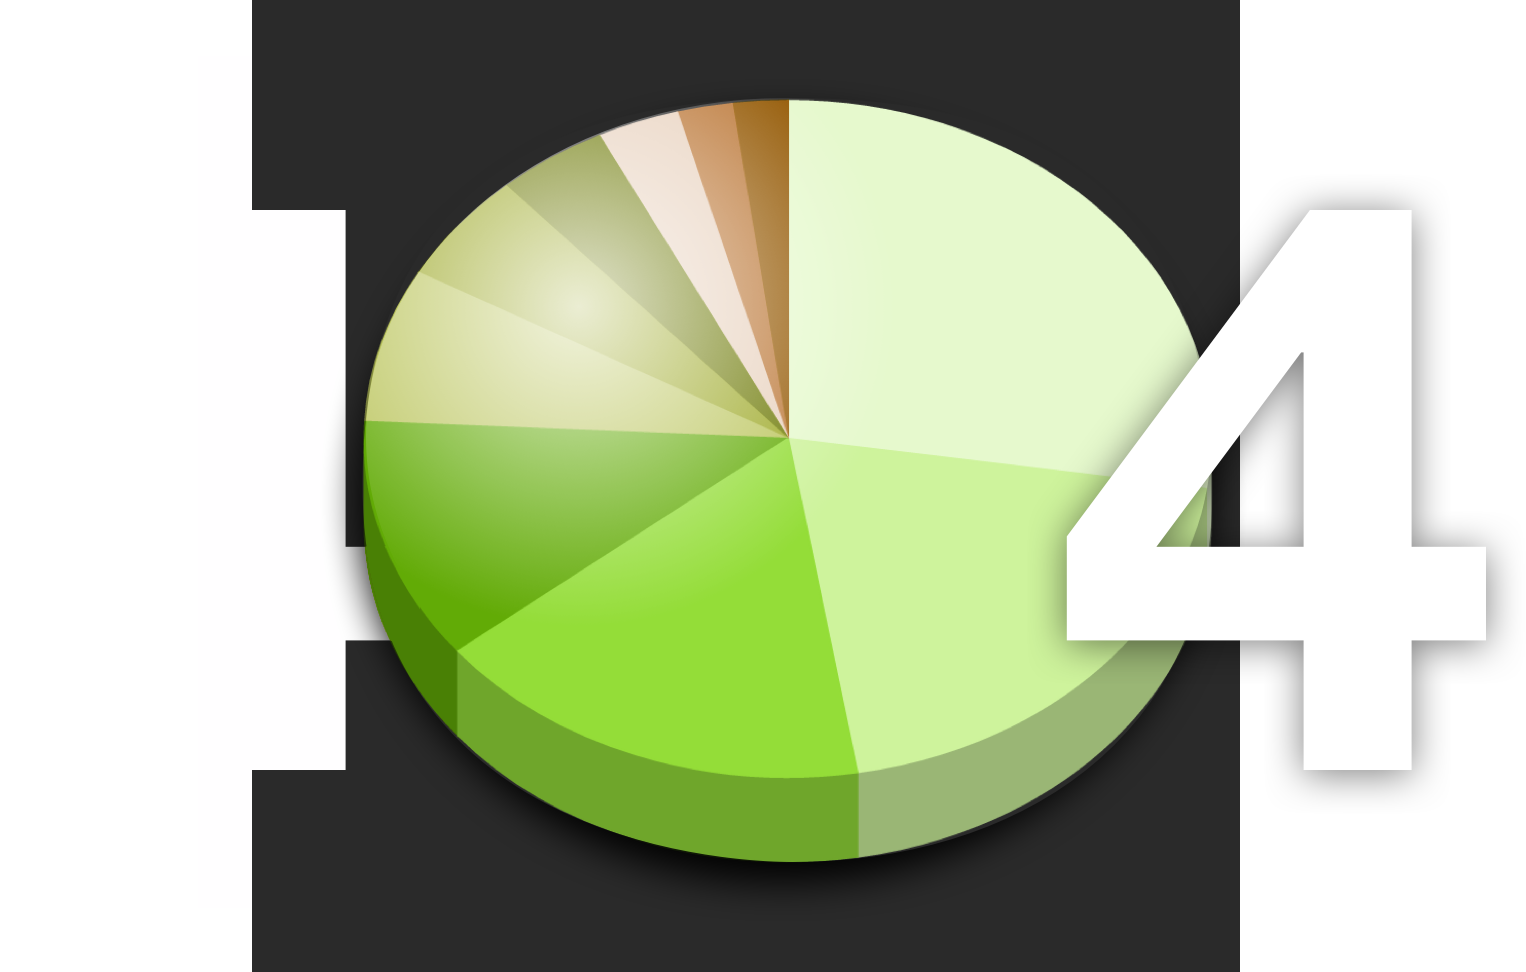
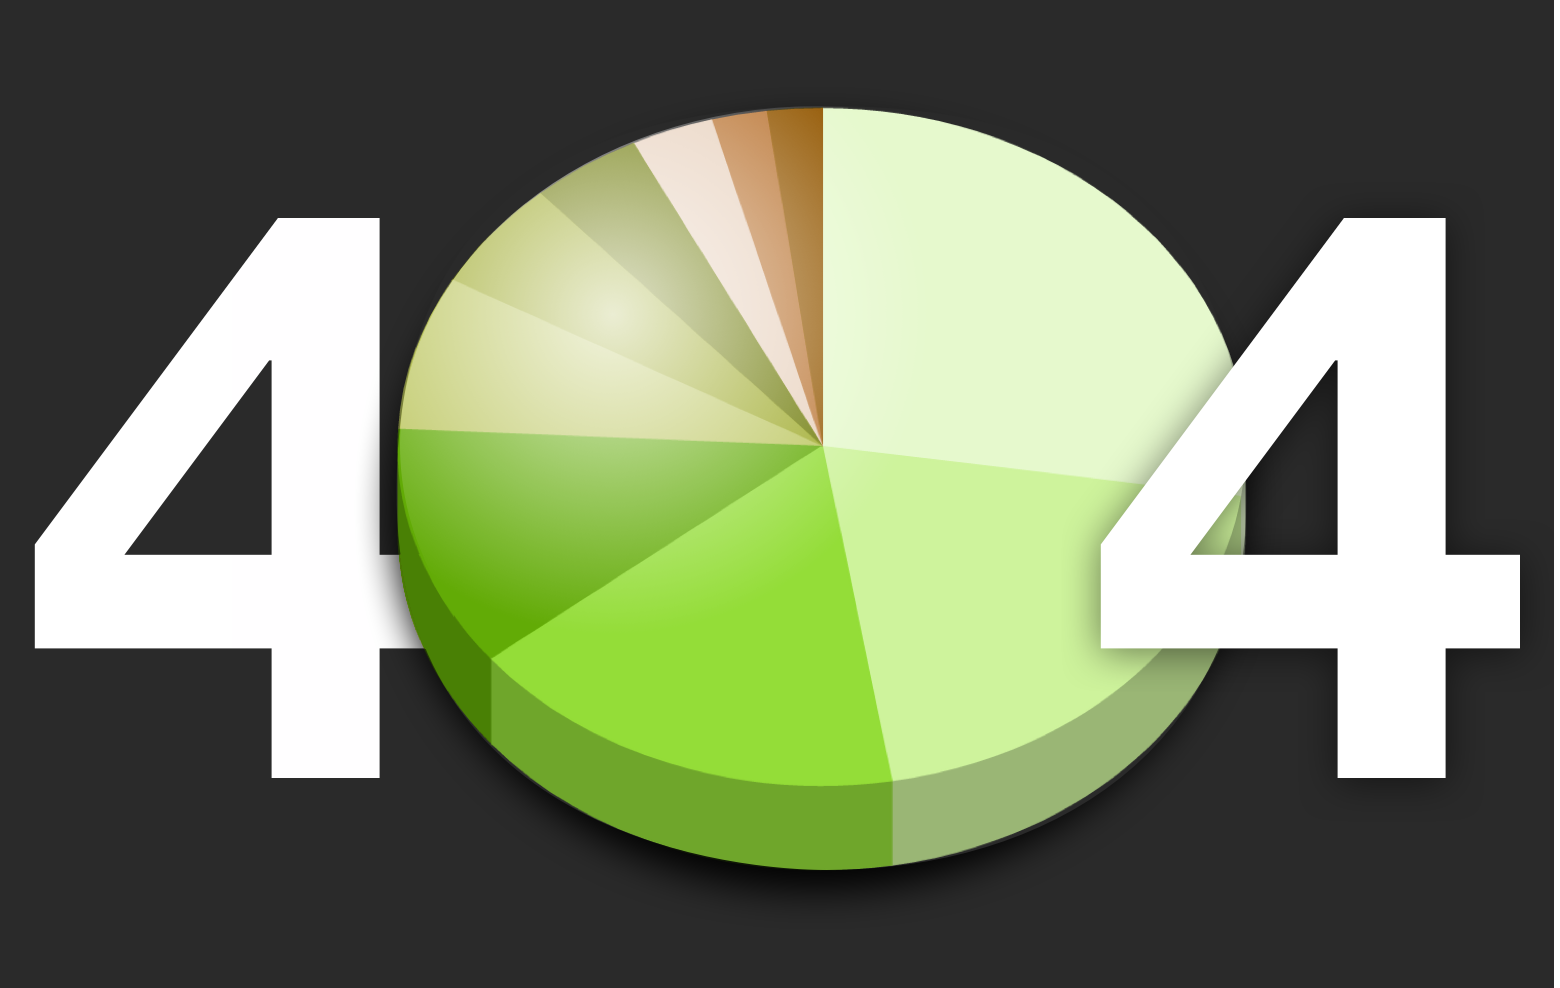
funny version added

diff --git a/404-funny.html b/404-funny.html
@@ -1,0 +1,24 @@
+<!doctype html>
+<html lang="en">
+    <head>
+        <title>Page not found</title>
+        <meta name="viewport" content="width=device-width, initial-scale=1">
+        <link rel="stylesheet" href="main.css">
+        <script src="https://use.typekit.net/ffc2cmd.js"></script>
+        <script>try{Typekit.load({ async: true });}catch(e){}</script>
+    </head>
+    <body>
+      <header>
+        <a class="logo" href="https://app.geckoboard.com" alt="Geckoboard app home" target="_self"><img src="https://d2s28ygc2k7998.cloudfront.net/images/masthead-logo-green.svg" alt="Geckoboard">
+          </a>
+        <nav>
+          <a href="http://support.geckoboard.com/home" alt="Geckoboard support" target="_blank">Help</a>
+        </nav>
+      </header>
+      <main>
+        <img class="error-image" src="images/404-pie-chart.png" alt="404 Error">
+        <p class="error-message">Oops, something went wrong here.</p>
+        <p class="back-home-link"><a href="https://app.geckoboard.com" alt="Geckoboard app home" target="_self">Back home</a></p>
+      </main>
+    </body>
+</html>

diff --git a/main.css b/main.css
@@ -182,3 +182,10 @@ h1{
 .back-home-link{
   font-size: 1.125rem;
 }
+
+.error-image{
+  margin-top: 2rem;
+  max-width:40rem;
+  width: 100%;
+  height: auto;
+}
